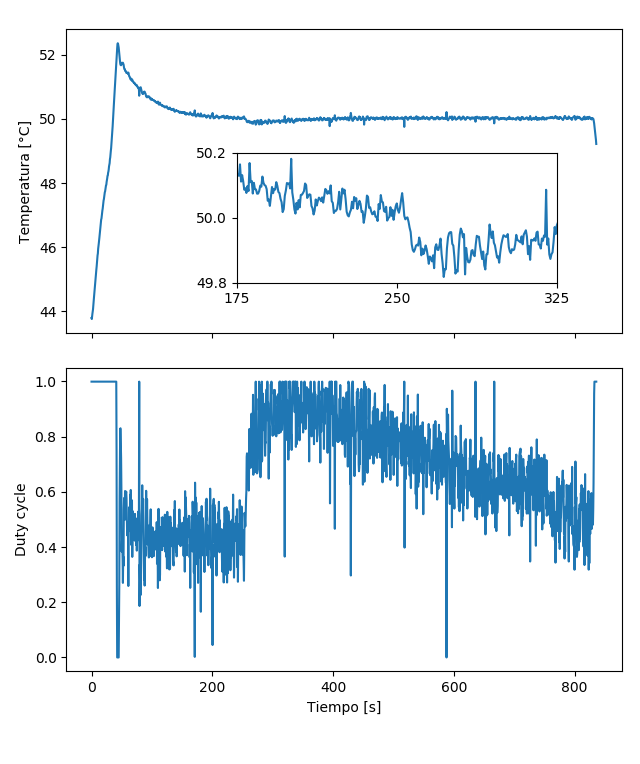
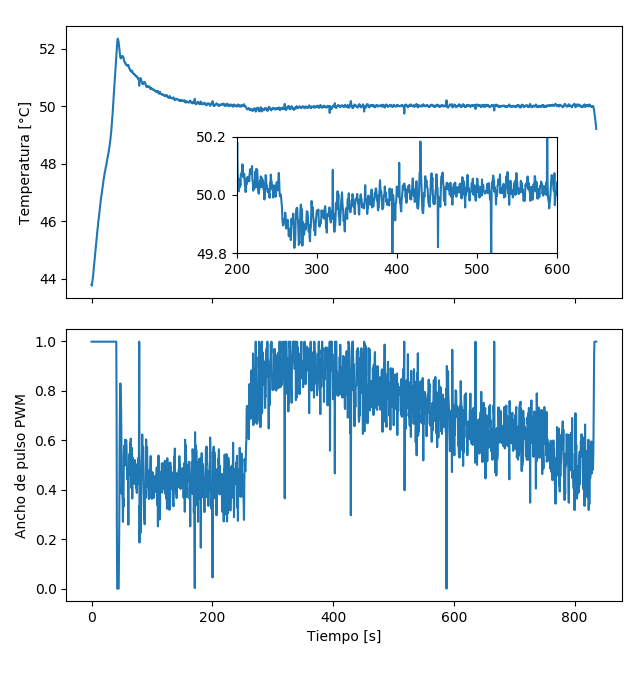
[Informe] Completo informe con mediciones de la última clase.

diff --git a/informe/informe.tex b/informe/informe.tex
@@ -35,7 +35,7 @@
     urlcolor=cyan           % color of external links
 }
 
-\title{Caracterización de componentes electrónicos utilizando una placa de audio}
+\title{Estabilización de temperatura mediante lazos de control}
 \date{\today}
 \author{Micaela Toscani, Axel Lacapmesure y Guillermo Brinatti}
 
@@ -46,32 +46,28 @@
 
 \section{Introducción}
 
+El objetivo del presente trabajo consiste en implementar un sistema de control de temperaturas en un prototipo de planta utilizando un lazo de control. Para ello empleamos un sensor de temperatura electrónico a modo de sensor en el lazo y una celda Peltier sobre la cual se variará su corriente a modo de actuador. Estos elementos fueron controlados mediante una placa de adquisición y una aplicación programada en lenguaje Python, la cual implementa la lógica del lazo de control y la comunicación con los dispositivos. En la sección \ref{sec:software} detallamos la aplicación mediante la cual realizamos la comunicación con los dispositivos, en la sección \ref{sec:daq} caracterizamos el funcionamiento de la placa de adquisición y, por último, en la sección \ref{sec:control_temperatura} describimos y evaluamos el desempeño de los distintos esquemas de lazos de control realizados.
+
 \section{Desarrollo de la aplicación de adquisición}
 \label{sec:software}
 
-	El control de la placa de adquisición fue llevado a cabo a partir de programar una biblioteca propia en lenguaje Python \cite{repo}. La misma incluyó funciones orientadas al usuario final destinadas a utilizar el dispositivo para la adquisición de datos y la generación de trenes de pulsos configurables, tanto en los modos de disparo único como de ejecución continua. Para ello empleamos la biblioteca \emph{\href{https://nidaqmx-python.readthedocs.io}{nidaqmx}} propia del fabricante de la placa de adquisición \cite{nidaqmx}, y que provee una API para la configuración del dispositivo y para su comunicación a través de los controladores del mismo.
+Para implementar el lazo de control se utilizó una placa de adquisición \emph{National Instruments} NI-USB6210, adquiriendo la señal del sensor mediante un canal de entrada analógico de la placa de adquisición, y controlando el actuador mediante una salida de contador digital en modo PWM, que permitía generar trenes de pulsos con frecuencia de repetición y anchos configurables.	El control de la placa de adquisición fue llevado a cabo a partir de programar una biblioteca propia en lenguaje Python \cite{repo}. La misma incluyó funciones orientadas al usuario final destinadas a utilizar el dispositivo para la adquisición de datos y la generación de trenes de pulsos configurables, tanto en los modos de disparo único como de ejecución continua. Para ello empleamos la biblioteca \emph{\href{https://nidaqmx-python.readthedocs.io}{nidaqmx}} propia del fabricante de la placa de adquisición \cite{nidaqmx}, y que provee una API para la configuración del dispositivo y para su comunicación a través de los controladores del mismo.
 	
 	Las funciones de usuario final se encargaron de la configuración de los canales de entrada analógicos y salidas de contadores, de la adquisición de una muestra finita de largo arbitrario, y de la adquisición continua de datos en simultáneo con la generación de pulsos de anchos variables. En la figura \ref{fig:flujo_software} se muestra un diagrama de flujo de una ejecución típica para la adquisición y generación de pulsos en modo continuo. Asimismo la biblioteca incluyó los elementos necesarios para la implementación del lazo de control que se discutirá en la sección \ref{sec:control_temperatura}, a saber, las estructuras que manejan la entrada de datos de sensado, que calculan la señal de error y que generan la señal de hacia el actuador.
 	
-<<<<<<< HEAD
-	El la adquisición de lectura y escritura se basa en un bucle que en cada iteración adquiere una ventana de datos con un número fijo de muestras, las procesa y por último escribe la configuración de los pulsos de salida, esto es, su frecuencia de repetición y su ancho. Para el funcionamiento de este esquema se asume que el tiempo de ejecución de las instrucciones dentro de cada iteración es menor al tiempo que demora la adquisición de las muestras, de manera que no se produzcan sobrecargas en el \emph{buffer} de la placa de adquisición. Bajo el modo de disparo único, las sucesivas ventanas temporales se concatenan en una variable de salida preinicializada, y el bucle finaliza cuando el número de muestras adquiridas alcanza el número total configurado. Bajo el modo de ejecucuón continua, las ventanas temporales se sobreescriben, y el bucle finaliza cuando el usuario interrumpe manualmente la ejecución del programa con el comando de teclado. En ambos casos, la finalización del bucle desencadena la etapa de cierre de comunicaciones y, eventualmente, el gráfico y guardado de los datos.
-	
-	\begin{figure}[!ht] 
+	\begin{figure}[h!]
         \centering
-        \includegraphics[height=.9\textheight]{flujo_software.pdf}
-=======
-	\begin{figure}[h!] 
-        \centering
-        \includegraphics[height=.95\textheight]{figs/flujo_software.pdf}
->>>>>>> 890084a0da6e0dcca0ab732d2c5a01095d4789d3
+        \includegraphics[height=.9\textheight]{figs/flujo_software.pdf}
         \caption{Diagrama de flujo para la aplicación de adquisición y generación de pulsos en modo de disparo único y ejecución continua.}
         \label{fig:flujo_software}
-    \end{figure}
-
+    \end{figure}	
+	
+	El la adquisición de lectura y escritura se basa en un bucle que en cada iteración adquiere una ventana de datos con un número fijo de muestras, las procesa y por último escribe la configuración de los pulsos de salida, esto es, su frecuencia de repetición y su ancho. Para el funcionamiento de este esquema se asume que el tiempo de ejecución de las instrucciones dentro de cada iteración es menor al tiempo que demora la adquisición de las muestras, de manera que no se produzcan sobrecargas en el \emph{buffer} de la placa de adquisición. Bajo el modo de disparo único, las sucesivas ventanas temporales se concatenan en una variable de salida preinicializada, y el bucle finaliza cuando el número de muestras adquiridas alcanza el número total configurado. Bajo el modo de ejecucuón continua, las ventanas temporales se sobreescriben, y el bucle finaliza cuando el usuario interrumpe manualmente la ejecución del programa con el comando de teclado. En ambos casos, la finalización del bucle desencadena la etapa de cierre de comunicaciones y, eventualmente, el gráfico y guardado de los datos.
 	
 	El la adquisición de lectura y escritura se basa en un bucle que en cada iteración adquiere una ventana de datos con un número fijo de muestras, las procesa y por último escribe la configuración de los pulsos de salida, esto es, su frecuencia de repetición y su ancho. Para el funcionamiento de este esquema se asume que el tiempo de ejecución de las instrucciones dentro de cada iteración es menor al tiempo que demora la adquisición de las muestras, de manera que no se produzcan sobrecargas en el \emph{buffer} de la placa de adquisición. Bajo el modo de disparo único, las sucesivas ventanas temporales se concatenan en una variable de salida preinicializada, y el bucle finaliza cuando el número de muestras adquiridas alcanza el número total configurado. Bajo el modo de ejecucuón continua, las ventanas temporales se sobreescriben, y el bucle finaliza cuando el usuario interrumpe manualmente la ejecución del programa con el comando de teclado. En ambos casos, la finalización del bucle desencadena la etapa de cierre de comunicaciones y, eventualmente, el gráfico y guardado de los datos.	
 
 \section{Caracterización de la placa de adquisición}
+\label{sec:daq}
 
 Se realizó una caracterización de la placa de adquisición en la que se propuso investigar los efectos de \textit{aliasing}, los tiempos asociados al multiplexado y el efecto del \textit{settling time} de la placa en las mediciones analógicas. 
 
@@ -98,16 +94,16 @@ Un resultado típico de este experimento donde se utilizaron tres canales analó
 
 Para finalizar la caracterización de la placa se midió la influencia del \textit{settling time} en las mediciones. Para hacer esto se configuraron dos canales analógicos consecutivos de la placa en las escalas de medición extremas (-200 mV a 200 mV y -10 V a 10 V). Luego se conectó el primero a tierra y el segundo a la referencia de 5 V de la misma placa. A continuación se realizó un barrido de frecuencias de adquisición registrando la tensión detectada en cada canal. El resultado de este experimento se muestra en las figuras \ref{fig:settling1} y \ref{fig:settling2}, donde se graficó la diferencia de tensión medida respecto de la esperada para cada canal. Se observa para los dos casos que a medida que la frecuencia aumenta (y luego se cambia cada vez más rápido de un canal a otro) se obtiene una pequeña señal residual en la dirección de la señal del canal vecino (positiva para el conectado a tierra y negativa para el de 5 V). Esto muestra que la señal está afectada, a frecuencias altas, por el tiempo que tarda la placa en preparar el acondicionamiento de la señal previo a su digitalización.  
 
-\begin{figure}[!ht]
+\begin{figure}[h!]
 \centering
-\includegraphics[width=\textwidth]{figs/settling0V.png}
+\includegraphics[height=.42\textheight]{figs/settling0V.png}
 \caption{Señal medida en una entrada conectada a tierra, configurada en $\pm$200 mV contigua a otra configurada en $\pm$10 V en función de la frecuencia de muestreo.}
 \label{fig:settling1}
 \end{figure}
 
-\begin{figure}[!ht]
+\begin{figure}[h!]
 \centering
-\includegraphics[width=\textwidth]{figs/settling5V.png}
+\includegraphics[height=.42\textheight]{figs/settling5V.png}
 \caption{Variación de la tensión medida en una entrada conectada a 5 V, configurada en $\pm$10 V contigua a otra configurada en $\pm$200 mV en función de la frecuencia de muestreo.}
 \label{fig:settling2}
 \end{figure}
@@ -146,7 +142,7 @@ evolución temporal de las señales de ciclo de trabajo del actuador y de
 tempratura medida para cuatro valores distintos de la constante de
 proporcionalidad \emph{a}.
 
-\begin{figure}[!ht]
+\begin{figure}[!h]
 \centering
 \includegraphics[width=\textwidth]{figs/lazo_duty}
 \caption{Evolución temporal de la señal de ciclo de trabajo del actuador
@@ -155,7 +151,7 @@ proporcionalidad \emph{a}.}
 \label{fig:lazo_duty}
 \end{figure}
 
-\begin{figure}[!ht]
+\begin{figure}[!h]
 \centering
 \includegraphics[width=\textwidth]{figs/lazo_temp}
 \caption{Evolución temporal de la señal de temperatura para distintos
@@ -169,7 +165,7 @@ valores de la constante de proporcionalidad \emph{a}.}
 Se implementó un controloador del tipo PID para mantener estable la
 señal de temperatura de la planta utilizada. En la figura
 \ref{fig:PID_diagrama} se muestra un diagrama en bloques del control
-implementado.  Para encontrar los parámetros que optimizan el
+implementado. Para encontrar los parámetros que optimizan el
 funcionamiento del control PID se utilizó el método de ajuste
 \emph{Cohen-Coon}. El mismo consiste en excitar la planta con una señal
 escalón y medir de la respuesta de la misma ciertos parámetros
@@ -177,21 +173,21 @@ característicos como se muestra en la figura
 \ref{fig:CohenCoon_StepTest}. Una vez obtenidos los parámetros
 necesarios, las distintas constantes de proporcionalidad de cada término
 del control PID se ajustan siguiendo las reglas que se muestran en la
-figura \ref{fig:CohenCoon_Rules}.
+figura \ref{fig:CohenCoon_Rules}. Por último, alrededor de los valores devueltos por el ajuste de \emph{Cohen-Coon} se ajustan manualmente las ganancias buscando atenuar sobrepicos, errores estacionarios, tiempos de respuesta y estabilidad.
 
-\begin{figure}[!ht]
+\begin{figure}[H]
 \centering
 \includegraphics[width=0.8\textwidth]{figs/PID_diagrama}
 \caption{Diagrama en bloques de un controlador PID en un lazo realimentado.}
 \label{fig:PID_diagrama}
 \end{figure}
 
-\begin{figure}[!ht]
+\begin{figure}[H]
 \centering
 \includegraphics[width=0.8\textwidth]{figs/CohenCoon_StepTest}
-\caption{Prueba del escalón para ajuste de parámetros PID mediante el
-\label{fig:CohenCoon_StepTest}
+\caption{Ejemplo de la prueba de escalón para el ajuste de parámetros PID mediante el
 método \emph{Cohen-Coon}}
+\label{fig:CohenCoon_StepTest}
 \end{figure}
 
 \begin{figure}[!ht]
@@ -202,18 +198,17 @@ método \emph{Cohen-Coon}}
 distintos tipos de controladores.}
 \end{figure}
 
-Se implementó el controlador PID en tres etapas, primero solo se utilizó
+Se implementó el controlador PID en tres etapas: primero solo se utilizó
 un control proporcional (P), luego se agregó un término integral al
-mismo (PI) el cual permitió reducir el error estacionario del controlador
-proporcional y finalmente se agregó un término derivativo (PID) con el
-objetivo de disminuir el sobrepico inicial en la señal de temperatura.
-En esta última modificación no se obtuvieron los resultados deseados ya
-que el sobre pico no disminuyó en su valor, solo se tardó más tiempo en
-alcanzar el valor de referencia de temperatura.
-Los resultados obtenidos se muestran en las figuras \ref{fig:P_temp},
-\ref{fig:PI_temp} y \ref{fig:PID_temp} respectivamente.
+mismo (PI), el cual permitió reducir el error estacionario del controlador
+proporcional, y finalmente se agregó un término derivativo (PID) con el
+objetivo de disminuir el sobrepico inicial en la señal de temperatura. Para implementar el término diferencial se computó la derivada numérica entre dos adquisiciones consecutivas de la señal sensada, mientras que para implementar el término integral $I$ se utilizó la relación
+\begin{equation}
+	I_{k+1} = \alpha I_k + K_i e_k
+\end{equation}
+donde $I_k$ y $e_k$ son respectivamente el término integral y la señal de error en el paso $k$, $K_i$ es la ganancia del término integral y $\alpha<1$ es una constante que regula el tiempo de integración, y que fue tomada igual a \SI{0.25}{} en todo nuestro trabajo. Los resultados obtenidos para los tres lazos mencionados se muestran en las figuras \ref{fig:P_temp}, \ref{fig:PI_temp} y \ref{fig:PID_temp}.
 
-\begin{figure}[!ht]
+\begin{figure}[!h]
 \centering
 \includegraphics[width=0.8\textwidth]{figs/P_temp}
 \caption{Evolución temporal de la señal de temperatura utilizando
@@ -222,7 +217,7 @@ disintos de la constante de proporcionalidad.}
 \label{fig:P_temp}
 \end{figure}
 
-\begin{figure}[!ht]
+\begin{figure}[!h]
 \centering
 \includegraphics[width=0.8\textwidth]{figs/PI_temp}
 \caption{Evolución temporal de la señal de temperatura cuando se agrega
@@ -230,7 +225,7 @@ un término integral al controlador (PI).}
 \label{fig:PI_temp}
 \end{figure}
 
-\begin{figure}[!ht]
+\begin{figure}[!h]
 \centering
 \includegraphics[width=0.8\textwidth]{figs/PID_temp}
 \caption{Evolución temporal de la señal de temperatura cuando se agrega
@@ -238,7 +233,26 @@ un término derivativo al controlador (PID).}
 \label{fig:PID_temp}
 \end{figure}
 
-\clearpage
+En el caso del lazo proporcional, para todas los valores de ganancia estudiados se obtuvieron tiempos de estabilización similares, del orden de \SI{100}{\s}. Una vez estabilizado, la temperatura presentó fluctuaciones menores a \SI{\pm 2.5}{\percent} debido al ruido de la planta, el cual también afectó a la señal del ciclo de trabajo. Estas fluctuaciones no pudieron ser atenuadas, de modo que estuvieron presentes en todas los lazos configurados en nuestro trabajo. Asimismo para todos los valores de ganancia del lazo proporcional se observó un error estacionario, con valores entre \SI{0.2}{\celsius} y \SI{1}{\celsius}, y que mejoró para mayores valores de la ganancia del lazo. Al introducir un término integral se pudo eliminar este error estacionario, introduciendo sobrepicos y alargando el tiempo de estabilización. Finalmente, al introducir el término derivador no se logró eliminar el sobrepico inicial pero en cambio sí se mejoró el tiempo de estabilización, tal como puede verse en la figura \ref{fig:PID_temp}, en especial si consideramos que la temperatura inicial fue menor que para la medición graficada en la figura \ref{fig:PI_temp}.
+
+Por último nos propusimos estudiar la respuesta del sistema ante una perturbación. Para ello cambiamos la configuración de la planta inicial por aquella esquematizada en la figura \ref{fig:planta2}, en donde pasamos a medir la temperatura directamente sobre la cara caliente de la celda Peltier, prescindiendo del bloque de aluminio. Una vez que el lazo de control llegó al equilibrio, la perturbación consistió en poner en contacto el bloque de aluminio con dicha cara de la celda Peltier.
+
+\begin{figure}[h!]
+\centering
+\includegraphics[width=0.8\textwidth]{figs/Planta2}
+\caption{Diagrama en bloques de la planta implementada para introducir perturbaciones. Inicialmente prescindimos del bloque de aluminio, el cual fue agregado una vez comenzada la medición a modo de perturbación del sistema.}
+\label{fig:planta2}
+\end{figure}
+
+Para este caso configuramos las ganancias del lazo PID igual a los valores finales obtenidos para la planta anterior. Bajo esa condición tomamos la medición que graficamos en la figura \ref{fig:PID_temp_peltier}, estableciendo una temperatura de referencia de \SI{50}{\celsius}. Una vez se alcanzó el equilibrio se puso en contacto el bloque de aluminio con la cara de la Peltier, a un tiempo de aproximadamente \SI{250}{\s}. La perturbación introdujo una disminución en la temperatura medida de \SI{0.2}{\celsius}. La señal del ancho de pulso se alteró en consecuencia y no se observa que alcance un nuevo valor estable en la totalidad de la medición. Contrariamente sí observamos que el lazo logra estabilizar temperatura en su valor de referencia en un intervalo de aproximadamente \SI{200}{\s}.
+
+\begin{figure}[H]
+\centering
+\includegraphics[width=\textwidth]{figs/PID_sobre_peltier.png}
+\caption{Evolución temporal de la señal de temperatura (superior) y del ciclo de trabajo (inferior) sensando la temperatura en la cara caliente de la celda Peltier. La perturbación se introduce aproximadamente a los \SI{250}{\s}. El recuadro muestra una ampliación de la temperatura alrededor de la perturbación.}
+\label{fig:PID_temp_peltier}
+\end{figure}
+
 
 \begin{thebibliography}{99}
 

diff --git a/informe/graficar.py b/informe/graficar.py
@@ -14,13 +14,12 @@ plt.setp(ax1.get_xticklabels(), visible=False)
 
 ax2 = plt.gcf().add_axes([.37, .63, .5, .17], zorder = 100)
 plt.plot(time, control_signal * daq.CAL, label = "Temperatura")
-plt.xlim([175,325])
+plt.xlim([200,600])
 plt.ylim([49.8, 50.2])
-plt.xticks([175,250,325])
 plt.yticks([49.8,50,50.2])
 
 ax3 = plt.subplot(2,1,2, sharex = ax1)
-plt.plot(time, duty, label = "Duty cycle")
-plt.ylabel("Duty cycle")
+plt.plot(time, duty, label = "Ancho de pulso PWM")
+plt.ylabel("Ancho de pulso PWM")
 plt.xlabel('Tiempo [s]')
 plt.tight_layout()
